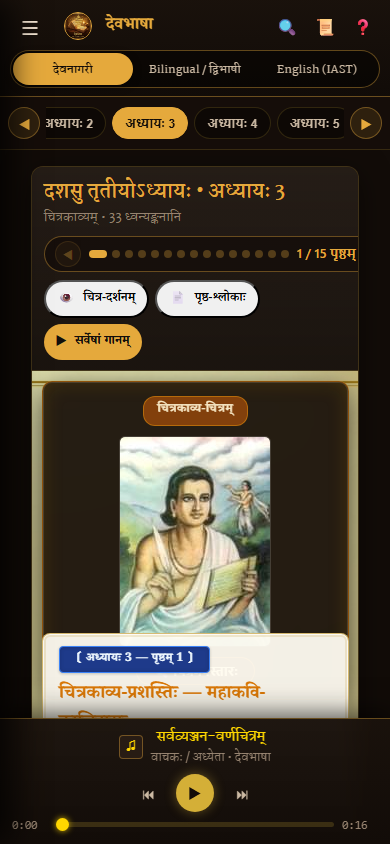
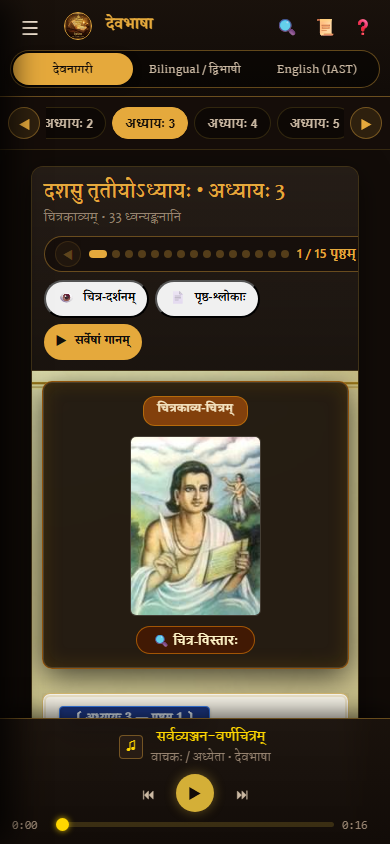
fix(mobile): constrain diagram frame to auto height and 180px image, ensuring zero overlap with shloka card below; bump v1.4.1

Changed region(s): [[0.0615, 0.4929, 0.9231, 0.8626], [0.8923, 0.4313, 0.9231, 0.4621], [0.0923, 0.4313, 0.1231, 0.4621]]

diff --git a/css/player.css b/css/player.css
@@ -291,10 +291,22 @@
     position: relative !important;
     inset: auto !important;
     width: 100% !important;
-    max-height: 240px !important;
+    height: auto !important;
+    max-height: none !important;
     padding: 0 !important;
-    margin: 0 !important;
+    margin: 0 0 12px 0 !important;
     z-index: 3 !important;
+  }
+
+  .canvas-stage-wrapper.diagram-mode .diagram-frame {
+    width: 100% !important;
+    max-width: 100% !important;
+    box-sizing: border-box !important;
+  }
+
+  .canvas-stage-wrapper.diagram-mode .diagram-img-wrap,
+  .canvas-stage-wrapper.diagram-mode .stage-diagram-img {
+    max-height: 180px !important;
   }
 
   .canvas-stage-wrapper.diagram-mode .dialogues-wrapper {

diff --git a/index.html b/index.html
@@ -23,9 +23,9 @@
   <link href="https://fonts.googleapis.com/css2?family=Martel:wght@400;600;700;900&family=Noto+Serif+Devanagari:wght@400;600;700;800&family=Tiro+Devanagari+Sanskrit:ital@0;1&display=swap" rel="stylesheet">
 
   <!-- Modern Modular Stylesheets -->
-  <link rel="stylesheet" href="css/main.css?v=1.4.0">
-  <link rel="stylesheet" href="css/player.css?v=1.4.0">
-  <link rel="stylesheet" href="css/tv.css?v=1.4.0">
+  <link rel="stylesheet" href="css/main.css?v=1.4.1">
+  <link rel="stylesheet" href="css/player.css?v=1.4.1">
+  <link rel="stylesheet" href="css/tv.css?v=1.4.1">
 </head>
 <body class="mode-devanagari sidebar-docked">
 

diff --git a/sw.js b/sw.js
@@ -10,8 +10,8 @@
  * 4. AUDIO: Cached at runtime only upon receiving a complete 200 OK response.
  */
 
-const CORE_CACHE_NAME = 'devabhasha-core-v1.4.0';
-const MEDIA_CACHE_NAME = 'devabhasha-media-v1.4.0';
+const CORE_CACHE_NAME = 'devabhasha-core-v1.4.1';
+const MEDIA_CACHE_NAME = 'devabhasha-media-v1.4.1';
 
 // Core Application Shell assets (~2.5 MB total)
 const PRECACHE_ASSETS = [
